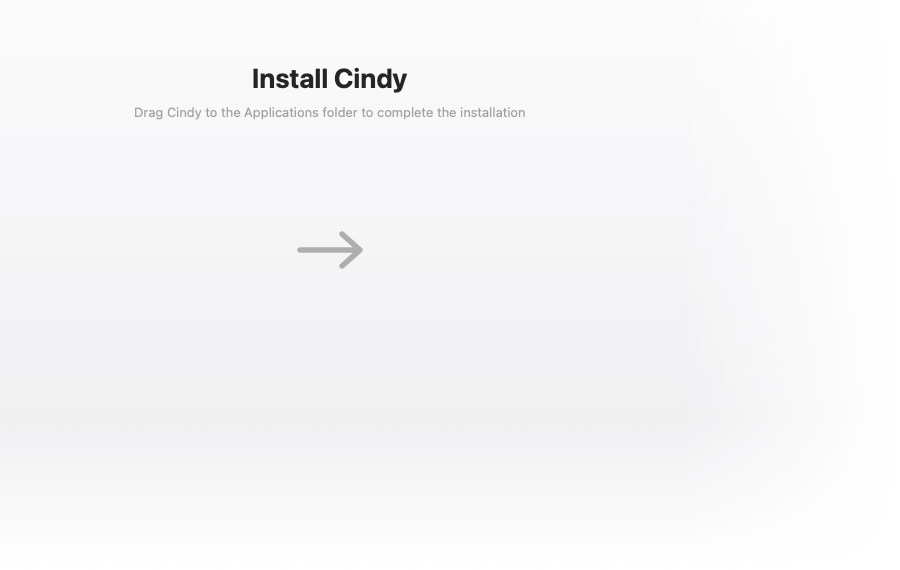
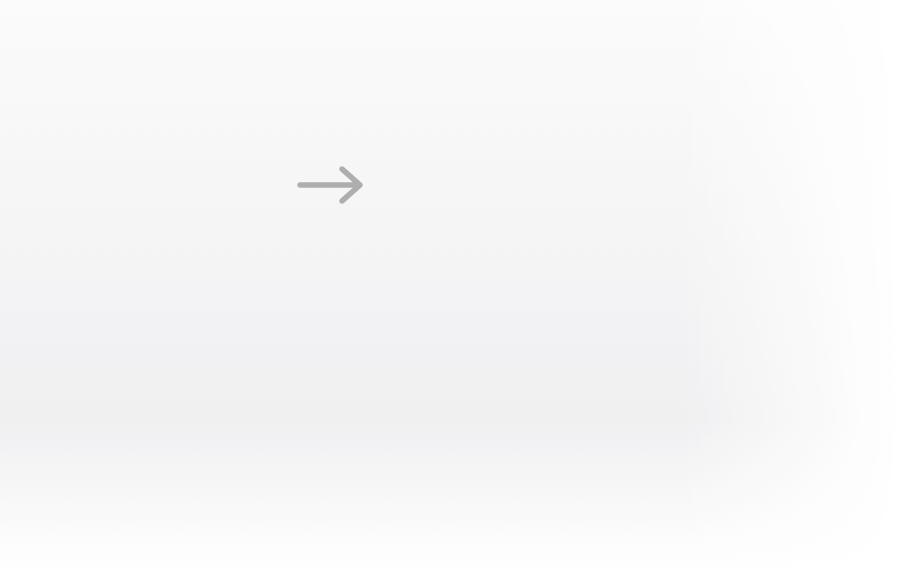
feat(desktop): DMG 背景去文字,图标行居中——彻底消除 Retina 模糊
macOS 26 Finder 背景恒为 1x 绘制(实测无解,社区亦无高清方案),位图文字必糊。
去掉背景里的标题/副标题,只留拖拽箭头;图标行(app/箭头/Applications)改为
窗口水平垂直居中(y 250 → 185)。窗口内所有可见文字(图标标签、窗口标题)
均为 Finder 矢量渲染,零模糊。

Changed region(s): [[0.1556, 0.1193, 0.5911, 0.2088], [0.3111, 0.4175, 0.4044, 0.4772], [0.3111, 0.2982, 0.4044, 0.3579]]

diff --git a/apps/desktop/resources/dmg/render-background.swift b/apps/desktop/resources/dmg/render-background.swift
@@ -23,8 +23,14 @@
 //   看到的是设计好的过渡而非生硬接缝。纯白仅用于画布边缘与 OS chrome 融合,
 //   属 DESIGN.md 精神下的系统衔接豁免,不用于内容区。
 //
+// 无文字设计(2026-07-20 v3,Lizi 拍板):背景不放任何位图文字——macOS 26 Finder
+// 背景恒为 1x 绘制,位图文字在 Retina 上必糊(实测无解,社区亦无解);去文字后
+// 窗口内所有可见文字(图标标签、窗口标题)均为 Finder 矢量渲染,零模糊。
+// 品牌感由 app 图标本体 + 卷名 "Cindy Installer" 承载。
+//
 // 布局坐标与 scripts/ci/lib.mjs 的 createMacDMG settings 联动:窗口 660×420,
-// 图标行中心 y=250(app x=175 / Applications x=485),箭头画在两图标之间。改动要两边同步。
+// 图标行中心 y=185(app x=175 / Applications x=485,含标签整体视觉居中),
+// 箭头画在两图标之间。改动要两边同步。
 import AppKit
 
 let W: CGFloat = 900, H: CGFloat = 570   // 画布(宽必须 <990,见上方渲染上限)
@@ -60,22 +66,8 @@ NSGradient(
     ending: NSColor(calibratedWhite: 1, alpha: 1)
 )!.draw(in: NSRect(x: 680, y: 0, width: W - 680, height: H), angle: 0)
 
-// 文字在设计区(660 宽)内水平居中;topY 从画布顶部量(画布顶 = 窗口顶)
-func drawCentered(_ text: String, font: NSFont, color: NSColor, topY: CGFloat) {
-    let s = NSAttributedString(string: text, attributes: [.font: font, .foregroundColor: color])
-    let size = s.size()
-    s.draw(at: NSPoint(x: (DW - size.width) / 2, y: H - topY - size.height))
-}
-
-drawCentered("Install Cindy",
-             font: .systemFont(ofSize: 27, weight: .bold),
-             color: NSColor(calibratedWhite: 0.11, alpha: 1), topY: 62)
-drawCentered("Drag Cindy to the Applications folder to complete the installation",
-             font: .systemFont(ofSize: 13, weight: .regular),
-             color: NSColor(calibratedWhite: 0.56, alpha: 1), topY: 104)
-
-// 拖拽引导箭头:图标行中心高度(窗口内 y=250 → 画布底原点坐标 H-250)
-let ay = H - 250
+// 拖拽引导箭头:图标行中心高度(窗口内 y=185 → 画布底原点坐标 H-185)
+let ay = H - 185
 let arrow = NSBezierPath()
 arrow.lineWidth = 5.5
 arrow.lineCapStyle = .round
